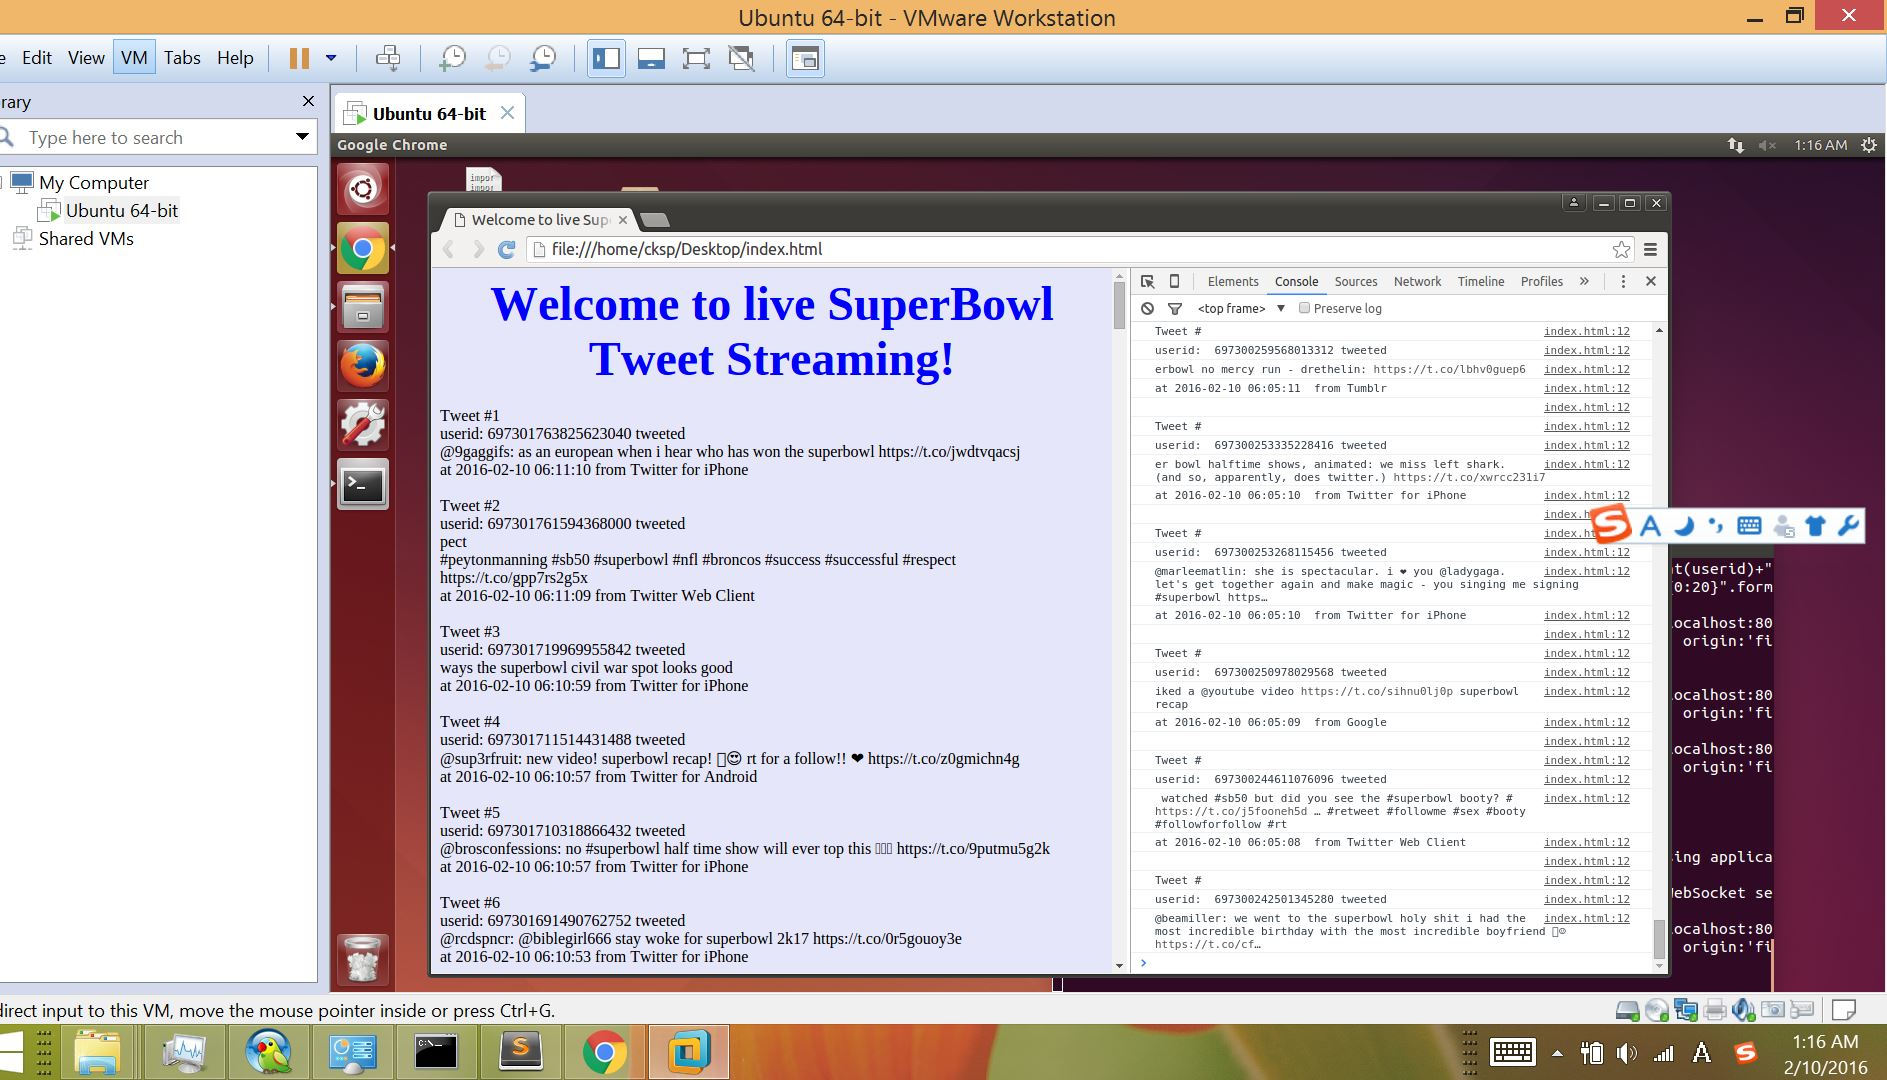
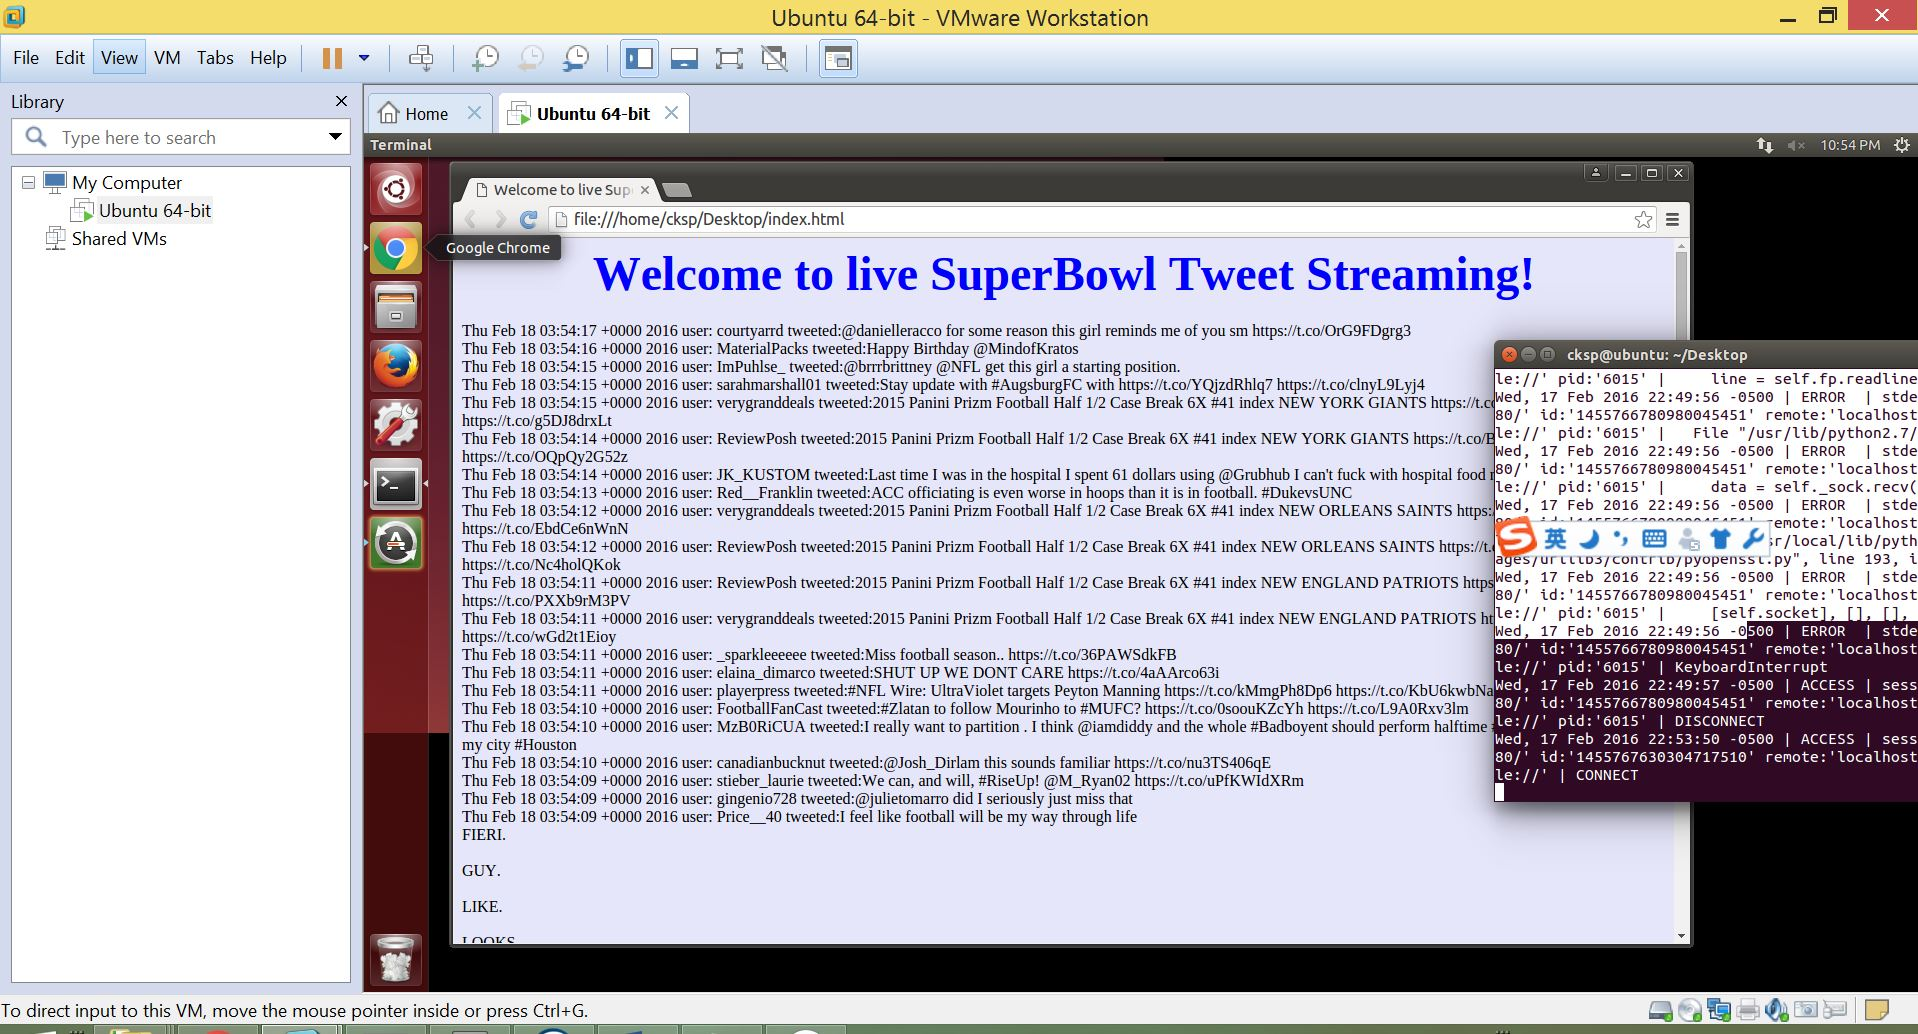
in case search does not count as streaming
in case search does not count as streaming

diff --git a/index1.html b/index1.html
@@ -7,19 +7,19 @@ Welcome to live SuperBowl Tweet Streaming!</title>
  <div id="content"></div>
 <script>
 var ws = new WebSocket('ws://localhost:8080/');
-count=100;
+count=1;
 ws.onmessage = function(event) {
 	console.log(event.data);
 	var div = document.getElementById('content');
 	var substr = "Tweet #";
-	if (count>0){ 
-		div.innerHTML =event.data+"<br>"+div.innerHTML;
-		}
-	else {
-		count=100;
-		div.innerHTML =event.data +"<br>";
-	}
-	count--
+	if (event.data.indexOf(substr)>-1){ 
+		div.innerHTML = div.innerHTML + event.data+count+"<br>";
+		count++;}
+	else if(event.data.indexOf("#clearcode#")>-1){ 
+		div.innerHTML = "";
+		count=1}
+	else {div.innerHTML = div.innerHTML+event.data +"<br>";}
+	
 };
 </script>
 

diff --git a/story.py b/story.py
@@ -1,8 +1,13 @@
 #!/usr/bin/python
 
-# the first line is to enable linux/Mac system to run this script as server script using "websocketd --port==8080 ./story.py" command
-
 # code below import the necessary modules to support the streaming of data
+# partial code reference to http://stats.seandolinar.com/collecting-twitter-data-using-a-python-stream-listener/
+# partial code reference to http://docs.tweepy.org/en/v3.4.0/streaming_how_to.html
+# partial code reference to http://adilmoujahid.com/posts/2014/07/twitter-analytics/
+# partial code reference to http://socialmedia-class.org/twittertutorial.html
+
+# the first line is to enable linux/Mac system to run this script as server script using "websocketd --port==8080 ./story.py" command
+# 'tweepy' is the python module for Twitter data extraction/processing
 
 from tweepy import Stream
 from tweepy import OAuthHandler
@@ -10,42 +15,48 @@ from tweepy import API
 from tweepy import AppAuthHandler
 from tweepy import Cursor
 from tweepy.streaming import StreamListener
-import re
 import time
+import json
+import sys
 
-# run main function
+
+# the Listener class is used to stream tweets live.
+class Listener(StreamListener): 
+    def on_data(self, data):
+        try:
+            tweet=json.loads(data)
+            result="{0:20}".format(tweet['created_at'])+"  user: "+"{0:15}".format(tweet['user']['screen_name'])+" tweeted:"+"{0:160}".format(tweet['text'])
+            print result
+            sys.stdout.flush()
+
+        # catching exception where the utf-8 code endoding error occurs, as the target streaming data is english, the relatively rare tweets with rare character being ignored should be okay
+        except BaseException, e:
+            pass
+ 
+    # the function below prints error code of errors during the use of twitter API  
+    def on_error(self, status):
+        print "error code:"+status
+
+
+# run main function to start streaming tweet data
 if __name__ == '__main__':
 
-    # twitter consumer key, consumer secret, access token, access secret.
+    # the following four lines are setting the credentials to authorize the program to retrieve tweets from twitter.
+    # the credentials are consumer key, consumer secret, access token, access secret.
     ckey="GVkuYv7N4B3G6GzruD2uCM9C0"
     csecret="obT4SpMgkIfUwbm2l5mYGIHUpCD3sfR9QH63PAKZ1Vxib6Zp4N"
     atoken="488346238-0A9NqkBr4Cli7BFx2Ro7023b0yeQTuwiUBDwD9od"
     asecret="vZdQ3CgKGB0b1lsmk2XLSkNSrORCaNZMYjhWH055sB02b"
 
-    # tweepy code to setup the API key for later data extraction from twitter
-    auth = AppAuthHandler(ckey, csecret)
-    api = API(auth)
+    # setup the streaming process by inputing the credentials object 'auth'
+    auth = OAuthHandler(ckey, csecret) 
+    auth.set_access_token(atoken, asecret)
+    keywords = ['superbowl','nfl','football'] #track list
 
-    # the loop that keeps getting twitter data and provide it to the client index.html
-    while(True):
-	print "#clearcode#"
-        for tweet in Cursor(api.search, q='superbowl',lang="en",count=100).pages(2):
-            for subtweet in tweet:
-                try:
-                    # re organizing the format of tweets to fit the streaming display better
-                    userid=subtweet.id
-                    content=subtweet.text.lower()
-                    timeline=str(subtweet.created_at)
-                    source=subtweet.source
-                    result= "Tweet #"+"\nuserid:"+"{0:20}".format(userid)+" tweeted\n"+"{0:160}".format(content[3:].encode('utf-8'))+"\nat "+"{0:20}".format(timeline)+ " from "+"{0:20}".format(source)+"\n"
-                    print result
-                except:
-                    # catching ascii encoding errors to prevent accidental server disconnectioin
-                    pass
-            break
-        time.sleep(600)
-
-
+    # code to actually start the streaming by intializing the Listener class 
+    twitterStream = Stream(auth, Listener())
+    # thie code below search through live tweets containing the keyword_lists in english from new york region
+    twitterStream.filter(track=keywords, languages=['en'],locations=[-74,40,-73,41])    
 
     
 

diff --git a/story1.py b/story1.py
@@ -1,0 +1,59 @@
+#!/usr/bin/python
+
+# the first line is to enable linux/Mac system to run this script as server script using "websocketd --port==8080 ./story.py" command
+
+# code below import the necessary modules to support the streaming of data
+
+from tweepy import Stream
+from tweepy import OAuthHandler
+from tweepy import API
+from tweepy import AppAuthHandler
+from tweepy import Cursor
+from tweepy.streaming import StreamListener
+import re
+import time
+
+# run main function
+if __name__ == '__main__':
+
+    # twitter consumer key, consumer secret, access token, access secret.
+    ckey="GVkuYv7N4B3G6GzruD2uCM9C0"
+    csecret="obT4SpMgkIfUwbm2l5mYGIHUpCD3sfR9QH63PAKZ1Vxib6Zp4N"
+    atoken="488346238-0A9NqkBr4Cli7BFx2Ro7023b0yeQTuwiUBDwD9od"
+    asecret="vZdQ3CgKGB0b1lsmk2XLSkNSrORCaNZMYjhWH055sB02b"
+
+    # tweepy code to setup the API key for later data extraction from twitter
+    auth = AppAuthHandler(ckey, csecret)
+    api = API(auth)
+
+    # the loop that keeps getting twitter data and provide it to the client index.html
+    while(True):
+	print "#clearcode#"
+        for tweet in Cursor(api.search, q='superbowl',lang="en",count=100).pages(2):
+            for subtweet in tweet:
+                try:
+                    # re organizing the format of tweets to fit the streaming display better
+                    userid=subtweet.id
+                    content=subtweet.text.lower()
+                    timeline=str(subtweet.created_at)
+                    source=subtweet.source
+                    result= "Tweet #"+"\nuserid:"+"{0:20}".format(userid)+" tweeted\n"+"{0:160}".format(content[3:].encode('utf-8'))+"\nat "+"{0:20}".format(timeline)+ " from "+"{0:20}".format(source)+"\n"
+                    print result
+                except:
+                    # catching ascii encoding errors to prevent accidental server disconnectioin
+                    pass
+            break
+        time.sleep(600)
+
+
+
+    
+
+
+
+
+
+
+
+
+
